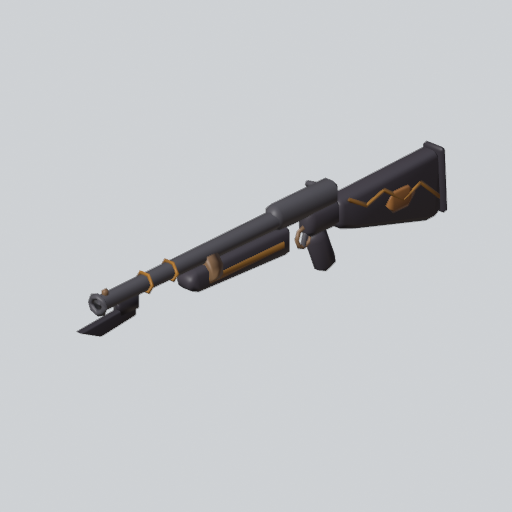
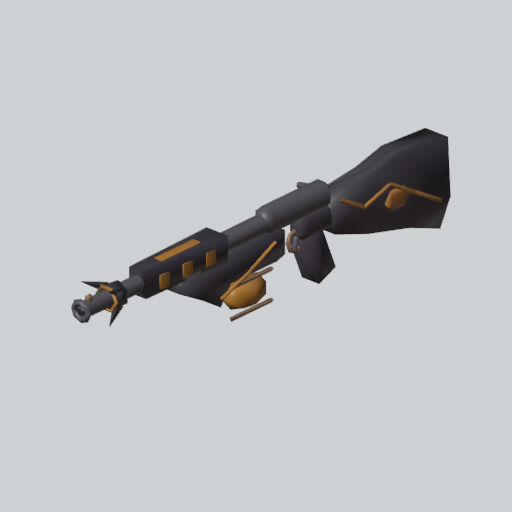
art 11p1: Lava Lance v2 (820 tris) + Lava Lob v2 (592 tris) - own silhouettes (#462)
Lava Lance: a rifle hewn from volcanic rock - jagged sharp-faceted obsidian stock and
fore-end with glowing cracks, a molten core in a dark-bronze cage slung under the
fore-end, an obsidian heat shroud with glowing vent slots (the pack tier's heat ramp
reads off them), a spike crown behind the muzzle. Grip (0,0,0) and the muzzle piece
unchanged; 820 <= the 864 cap with Belt Fed.
Lava Lob: a cracked magma core caged in five obsidian ribs, crust shards, a spiked
bottom cap; the Safari Grenade's fuse head, spoon and ring kept on top. 592 <= 600.

Changed region(s): [[0.125, 0.25, 0.9062, 0.6562]]

diff --git a/tools/art/models/gun/RIFLE_LAVA_LANCE.py b/tools/art/models/gun/RIFLE_LAVA_LANCE.py
@@ -1,14 +1,22 @@
-"""RIFLE_LAVA_LANCE - Hunting Rifle premium skin Lava Lance (Lava Lord theme, PREMIUM_SKINS.md, batch
-11p1): an obsidian-stocked rifle split by cracked lava seams. Black volcanic-glass stock and fore-end
-with glowing cracks on both sides, a molten channel down each side of the fore-end, three heat rings
-glowing on the barrel, a dark-bronze band, and an obsidian lance blade under the muzzle (below the
-bore, the muzzle lane stays clear). The sling and swivels are off. `glow` = Neon in game (Shared/
-SkinFx pulses it; the tracer goes orange); `accent` (the skin's colour) = an ember stone set in the
-butt where the class badge was. Base: gun/RIFLE (variants/_skins.py).
+"""RIFLE_LAVA_LANCE v2 - Hunting Rifle premium skin Lava Lance (Lava Lord theme, PREMIUM_SKINS.md, batch
+11p1, #462: its own silhouette). A rifle hewn from volcanic rock around a magma heart:
+
+  * a jagged faceted obsidian stock (angular rock profile, a glowing crack down each side) and a
+    rock fore-end with a cracked keel underneath
+  * a magma reservoir slung under the fore-end: a glowing molten core in a dark-bronze cage
+  * a heavy obsidian heat shroud over the barrel with four glowing vent slots on each side and a
+    long vent along the top (the vents are what the pack tier's heat ramp shows: cool -> white-hot)
+  * a crown of obsidian spikes round the muzzle (behind the tip, the muzzle lane stays clear)
+  * an ember stone (`accent`) set in the butt where the class badge was
+
+The receiver, barrel, trigger, guard and the `muzzle` piece are the base's; grip at (0, 0, 0).
+Sling, swivels, bolt knob, rear sight, barrel band, stock, grip and fore-end are dropped (grip
+re-added lighter). `glow` = Neon in game. Base: gun/RIFLE (variants/_skins.py), cap 864 with Belt Fed.
 """
 # art-sources: _rifle.py variants/_skins.py
 
 import importlib.util
+import math
 from pathlib import Path
 
 _spec = importlib.util.spec_from_file_location("_skins", Path(__file__).with_name("variants") / "_skins.py")
@@ -22,27 +30,51 @@ def crack(G, x, pts, r=0.016):
 
 
 def extra(g, G, D):
-    g.add("wood", G.rbox((0, -0.06, 0.07), (0.12, 0.28, 0.14), bevel=0.045, segments=1, rot=(-22, 0, 0)))  # grip, lighter
+    w = 0.08
+    # jagged rock stock: an angular profile (z, y), wider than the walnut one
+    g.add("wood",
+          G.slab([(0.14, 0.22), (0.5, 0.26), (0.7, 0.31), (1.04, 0.29), (1.06, -0.06), (0.98, -0.22),
+                  (0.74, -0.13), (0.42, -0.05), (0.16, 0.04)], -w, w, bevel=0.0),  # sharp rock facets
+          G.rbox((0, -0.06, 0.07), (0.12, 0.28, 0.14), bevel=0.0, rot=(-22, 0, 0)),  # grip, lighter
+          # rock fore-end with a keel underneath
+          G.slab([(-0.22, 0.2), (-0.98, 0.2), (-1.04, 0.12), (-0.86, 0.02), (-0.72, -0.07), (-0.64, 0.04), (-0.28, 0.04),
+                  (-0.22, 0.06)], -0.07, 0.07, bevel=0.0))
     for k in (-1, 1):
-        x = 0.072 * k
-        g.add("glow",
-              *crack(G, x, [(0.2, 0.22), (0.12, 0.36), (0.16, 0.5), (0.05, 0.66), (0.1, 0.8), (-0.04, 0.95)]),
-              G.rbox((0.067 * k, 0.12, -0.6), (0.012, 0.035, 0.6), bevel=0.0))  # molten channel, fore-end
-    g.add("glow", *[G.ring((0, D.BORE, z), 0.058, 0.012, 6, 3, axis="z") for z in (-1.15, -1.35)])
-    g.add("dark",
-          G.rbox((0, 0.175, -1.5), (0.06, 0.08, 0.14), bevel=0.0),  # blade lug under the barrel
-          G.slab([(-1.44, 0.17), (-1.89, 0.14), (-1.72, 0.06), (-1.44, 0.09)], -0.024, 0.024, bevel=0.008))  # lance blade
-    g.add("glow", G.slab([(-1.5, 0.125), (-1.78, 0.118), (-1.5, 0.112)], -0.021, 0.021, bevel=0.0))  # its hot edge line
+        x = (w + 0.004) * k
+        g.add("glow", *crack(G, x, [(0.22, 0.2), (0.12, 0.38), (0.18, 0.58), (0.06, 0.78), (-0.06, 0.98)]),
+              *crack(G, 0.074 * k, [(0.16, -0.3), (0.06, -0.5), (-0.02, -0.72)]))
+    # magma reservoir: a molten core in a dark-bronze cage, slung under the fore-end like a magazine
+    cz, cy = -0.46, -0.07
+    g.add("glow", G.ell((0, cy - 0.02, cz), (0.095, 0.1, 0.15), 6, 4))
+    g.add("brass",
+          *[G.rod((0.105 * math.cos(a), cy - 0.02 + 0.105 * math.sin(a), cz + 0.16), (0.105 * math.cos(a), cy - 0.02 + 0.105 * math.sin(a), cz - 0.16), 0.014, 3)
+            for a in (math.radians(d) for d in (0, 120, 240))])
+    # heat shroud over the barrel, vents on both sides + a row on top
+    g.add("dark", G.rbox((0, D.BORE + 0.005, -0.98), (0.15, 0.15, 0.62), bevel=0.0, taper=(0.8, 1.0)))
+    g.add("glow",
+          *[G.rbox((0.072 * k, D.BORE - 0.005, z), (0.012, 0.08, 0.07), bevel=0.0) for k in (-1, 1) for z in (-0.8, -0.98, -1.16)],
+          G.rbox((0, D.BORE + 0.08, -0.98), (0.05, 0.012, 0.3), bevel=0.0))  # one long vent along the top
+    # crown of obsidian spikes round the barrel behind the muzzle (pointing out and a little forward)
+    spikes = []
+    for d in (45, 135, 225, 315):
+        a = math.radians(d)
+        ca, sa = math.cos(a), math.sin(a)
+        spikes.append(G.rod((0.05 * ca, D.BORE + 0.05 * sa, -1.48), (0.14 * ca, D.BORE + 0.14 * sa, -1.62), 0.032, 3, top=0.05))
+    g.add("dark", *spikes, G.rod((0, D.BORE, -1.44), (0, D.BORE, -1.52), 0.075, 6))
+    g.add("glow", G.ring((0, D.BORE, -1.53), 0.07, 0.012, 6, 3, axis="z"))
+    g.add("accent", G.ell((-(w + 0.004), 0.08, 0.64), (0.014, 0.07, 0.1), 6, 3))  # ember stone
 
 
 def build(lp):
     model = S.variant(
         lp, "RIFLE", "LAVA_LANCE", "Lava Lance",
-        drop=[("wood", 2), ("steel", 3), ("steel", 4), ("steel", 6), ("steel", 7), ("leather", 0), ("leather", 1), ("leather", 2), ("leather", 3)],  # grip (re-added lighter), knob, rear sight, swivels, sling
+        drop=[("wood", 0), ("wood", 2), ("wood", 3),  # stock, grip (re-added lighter), fore-end -> rock
+              ("steel", 3), ("steel", 4), ("steel", 6), ("steel", 7),  # knob, rear sight, swivels
+              ("leather", 0), ("leather", 1), ("leather", 2), ("leather", 3), ("brass", 0), ("accent", 0)],  # sling, barrel band, badge
         extra=extra,
         colors={"wood": (40, 34, 42), "steel": (62, 58, 66), "brass": (150, 84, 44), "dark": (28, 24, 30),
                 "accent": (236, 96, 28), "glow": (255, 112, 20)},
     )
     model["batch"] = "11p1"
-    model["meta"].update({"theme": "LAVA_LORD", "premium": True})
+    model["meta"].update({"theme": "LAVA_LORD", "premium": True, "version": 2})
     return model

diff --git a/tools/art/models/kit/RIFLE_GRENADE_LAVA_LOB.py b/tools/art/models/kit/RIFLE_GRENADE_LAVA_LOB.py
@@ -1,9 +1,11 @@
-"""RIFLE_GRENADE_LAVA_LOB - the Big Game Hunter's grenade, premium skin Lava Lob (Lava Lord theme,
-PREMIUM_SKINS.md, batch 11p1): a lump of faceted obsidian cracked open by lava. A low-poly volcanic-glass
-ball with glowing seams wrapping it, a dark-iron fuse
-head, spoon lever and pull ring (the Safari Grenade's, so it still reads as a grenade) and a glowing
-fuse cap. `glow` = Neon (Shared/SkinFx: the blast goes orange with a dark smoke puff). Same frame as
-the base (kit/_prop.py: origin = the thrown 0.9 ball's centre, upright), <= 600 tris.
+"""RIFLE_GRENADE_LAVA_LOB v2 - the Big Game Hunter's grenade, premium skin Lava Lob (Lava Lord theme,
+PREMIUM_SKINS.md, batch 11p1, #462: its own silhouette). A cracked magma core caged in obsidian:
+a glowing faceted core with plates of dark crust floating on it (the lava shows between them), held
+in five curved obsidian ribs that meet in a spiked cap underneath and a collar on top; the Safari
+Grenade's dark-iron fuse head, spoon lever and pull ring stay on top so it still reads as a grenade,
+with a glowing fuse cap. `glow` = Neon (Shared/SkinFx: the blast goes orange with a dark smoke puff;
+the pack tier adds a fire trail in flight and a lava splash on impact). Same frame as the base
+(kit/_prop.py: origin = the thrown 0.9 ball's centre, upright), <= 600 tris.
 Runtime key: kit/<HERO>_GRENADE_<SKIN KEY> (PREMIUM_SKINS "Grenade art hookup").
 """
 
@@ -16,51 +18,51 @@ D = importlib.util.module_from_spec(_spec)
 _spec.loader.exec_module(D)
 G = D.G
 
-R = 0.31
-C = (0, -0.05, 0)
+R = 0.3
+C = (0, -0.04, 0)
 
 
-def on_ball(yaw, pitch, lift=1.02):
+def on_ball(yaw, pitch, lift=1.0, r=R):
     y, p = math.radians(yaw), math.radians(pitch)
-    return (C[0] + R * lift * math.cos(p) * math.sin(y), C[1] + R * lift * math.sin(p), C[2] - R * lift * math.cos(p) * math.cos(y))
-
-
-def crack(pts, r=0.017, sub=3):
-    """A seam hugging the ball: each (yaw, pitch) step split in `sub` so the rods follow the curve."""
-    fine = [pts[0]]
-    for (y0, p0), (y1, p1) in zip(pts, pts[1:]):
-        fine += [(y0 + (y1 - y0) * t / sub, p0 + (p1 - p0) * t / sub) for t in range(1, sub + 1)]
-    xyz = [on_ball(*p, lift=1.0) for p in fine]
-    return [G.rod(a, b, r, 3) for a, b in zip(xyz, xyz[1:])]
+    return (C[0] + r * lift * math.cos(p) * math.sin(y), C[1] + r * lift * math.sin(p), C[2] - r * lift * math.cos(p) * math.cos(y))
 
 
 def faceted(obj):
-    """Every edge sharp: build.py's weighted-normal smoothing keeps them, so the glass shows facets."""
+    """Every edge sharp: build.py's weighted-normal smoothing keeps them, so facets show."""
     for e in obj.data.edges:
         e.use_edge_sharp = True
     return obj
 
 
 def lob(g):
-    g.add("body", faceted(G.ell(C, (R, R * 0.96, R), 9, 6)))  # faceted obsidian
-    g.add("glow",
-          *crack([(-50, 55), (-30, 30), (-40, 5), (-15, -25), (-25, -50)]),
-          *crack([(-40, 5), (15, 12), (40, -12), (75, 5)], sub=2),
-          *crack([(130, 45), (150, 18), (138, -12), (170, -40)], sub=2),
-          *crack([(215, 30), (240, 2), (228, -30)], sub=2),
-          *crack([(290, 40), (305, 10), (335, 20)], sub=2))
-    g.add("steel", G.rod((0, 0.2, 0), (0, 0.36, 0), 0.08, 8))  # fuse head (dark iron)
-    g.add("glow", G.ell((0, 0.37, 0), (0.06, 0.03, 0.06), 6, 3))  # glowing fuse cap
+    # the molten core, faceted
+    g.add("glow", faceted(G.ell(C, (R * 0.86, R * 0.84, R * 0.86), 8, 5)))
+    # dark crust plates floating on the core (the lava glows in the gaps)
+    g.add("crust", *[faceted(G.ell(on_ball(yaw, p, 0.8), (0.1, 0.08, 0.035), 5, 3, rot=(-p, yaw, 0)))
+                     for yaw, p in ((36, 20), (130, -24), (220, 10), (310, -14), (80, 46))])
+    # five obsidian ribs: curved bands along the meridians, top collar to bottom cap
+    ribs = []
+    for yaw in (0, 72, 144, 216, 288):
+        pts = [on_ball(yaw + 6 * math.sin(math.radians(p)), p, 1.04) for p in (62, 22, -22, -64)]
+        for a, b in zip(pts, pts[1:]):
+            mid = [(u + v) / 2 - c for u, v, c in zip(a, b, C)]
+            ribs.append(G.bar(a, b, 0.07, 0.04, bevel=0.0, up=mid))
+    g.add("body", *ribs,
+          G.rod((0, C[1] + 0.22, 0), (0, C[1] + 0.3, 0), 0.15, 7),  # top collar the ribs meet in
+          G.rod((0, C[1] - 0.24, 0), (0, C[1] - 0.3, 0), 0.13, 7),  # bottom cap
+          G.rod((0, C[1] - 0.29, 0), (0, C[1] - 0.47, 0), 0.08, 5, top=0.05))  # its spike
+    g.add("steel", G.rod((0, 0.25, 0), (0, 0.38, 0), 0.075, 7))  # fuse head (dark iron)
+    g.add("glow", G.ell((0, 0.39, 0), (0.055, 0.03, 0.055), 6, 3))  # glowing fuse cap
     g.add("brass",
-          G.bar((0.08, 0.34, 0), (0.25, 0.06, 0), 0.07, 0.025, up=(1, 0, 0)),  # spoon lever
-          G.bar((0.25, 0.06, 0), (0.27, -0.12, 0), 0.07, 0.025, up=(1, 0, 0)),
-          G.ring((-0.13, 0.34, 0), 0.07, 0.016, 10, 3, axis="z"))  # pull ring
+          G.bar((0.08, 0.36, 0), (0.25, 0.1, 0), 0.07, 0.025, up=(1, 0, 0)),  # spoon lever
+          G.bar((0.25, 0.1, 0), (0.3, -0.1, 0), 0.07, 0.025, up=(1, 0, 0)),
+          G.ring((-0.13, 0.36, 0), 0.07, 0.016, 8, 3, axis="z"))  # pull ring
 
 
 def build(lp):
     g = G.Gun(lp, D.GRENADE, D.CAP)
     lob(g)
     meta = {"hero": "RIFLE", "prop": "grenade", "display": "Lava Lob", "skin": "LAVA_LOB",
-            "base": "kit/RIFLE_GRENADE", "centre": [0, 0, 0], "theme": "LAVA_LORD", "premium": True}
-    return g.model("11p1", "small", {"body": (40, 34, 42), "glow": (255, 112, 20), "steel": (52, 48, 54),
-                                      "brass": (120, 70, 42)}, meta)
+            "base": "kit/RIFLE_GRENADE", "centre": [0, 0, 0], "theme": "LAVA_LORD", "premium": True, "version": 2}
+    return g.model("11p1", "small", {"body": (34, 30, 38), "crust": (58, 44, 44), "glow": (255, 112, 20),
+                                      "steel": (52, 48, 54), "brass": (120, 70, 42)}, meta)
